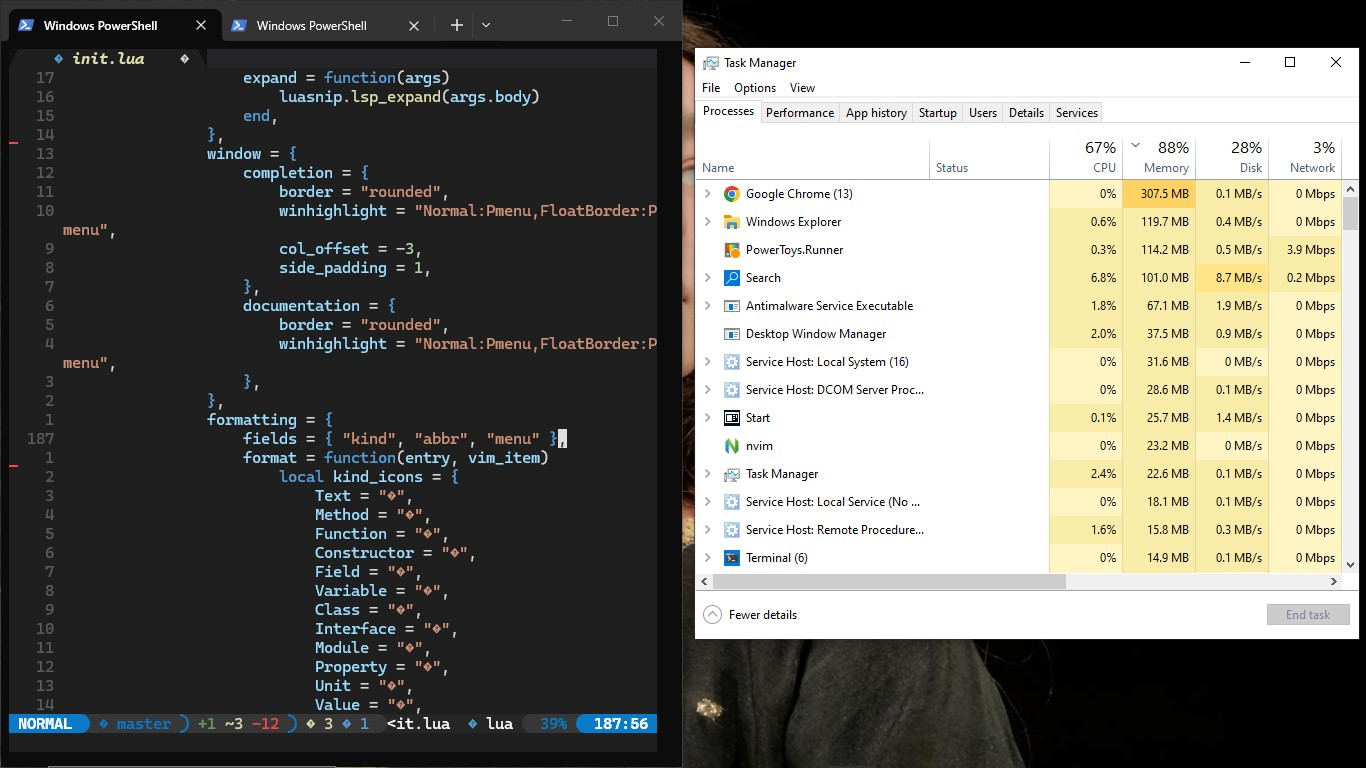
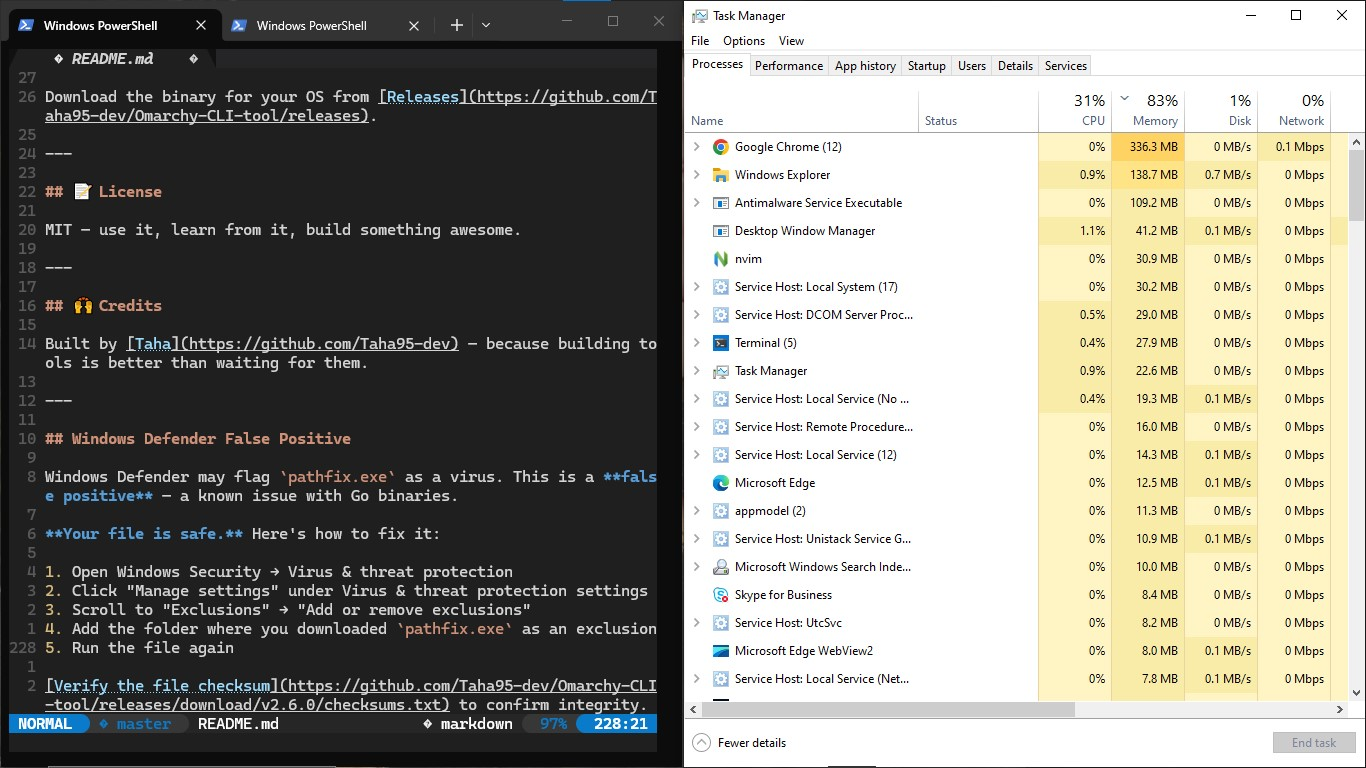
changed

diff --git a/README.md b/README.md
@@ -231,4 +231,4 @@ Windows Defender may flag `pathfix.exe` as a virus. This is a **false positive**
 
 ---
 
-**Omarchy v1 remains free and open source (MIT).**
+**Omarchy v1 remains free and open source (MIT)**
